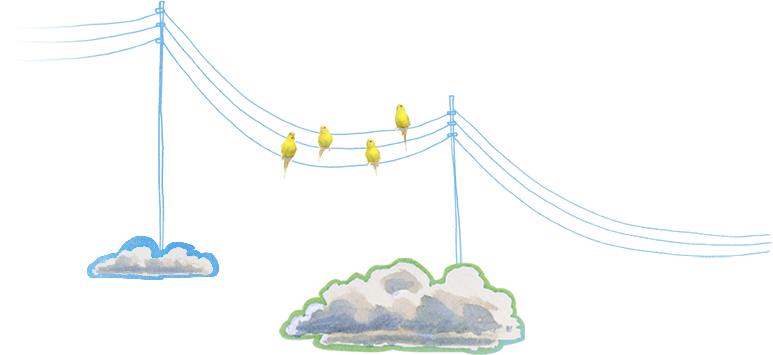
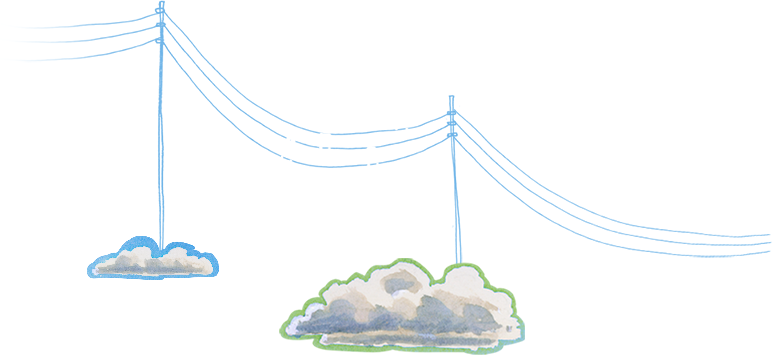
Botanist

Changed region(s): [[0.3415, 0.3408, 0.4347, 0.4958], [0.4657, 0.2789, 0.5278, 0.4958]]

diff --git a/app/botanist.html b/app/botanist.html
@@ -21,33 +21,35 @@
              <nav>
                 <div class="nav_toggle"></div>
                 <div class="navTopper"></div>
-                <a href="index.html" data-page="index" class="navSection"><img src="images/nav/nav_nwtc.png" alt="New World Trading Co." /></a>
-                <a href="oasthouse.html" data-page="oasthouse" class="navSection"><img src="images/nav/nav_oast.png" alt="The Oast House" /></a>
-                <a href="botanist.html" data-page="botanist" class="navSection"><img src="images/nav/nav_bot.png" alt="Botanist" /></a>
-                <a href="smugglerscove.html" data-page="smugglerscove" class="navSection"><img src="images/nav/nav_smcove.png" alt="The Smugglers Cove" /></a>
+                <a href="index.html" data-page="index" class="navSection"><img src="images/nav/nav_nwtc.png" alt="New World Trading Co." width="376" height="236" /></a>
+                <a href="oasthouse.html" data-page="oasthouse" class="navSection"><img src="images/nav/nav_oast.png" alt="The Oast House" width="376" height="99" /></a>
+                <a href="botanist.html" data-page="botanist" class="navSection"><img src="images/nav/nav_bot.png" alt="Botanist" width="376" height="202" /></a>
+                <a href="smugglerscove.html" data-page="smugglerscove" class="navSection"><img src="images/nav/nav_smcove.png" alt="The Smugglers Cove" width="376" height="169" /></a>
                 <div class="navBottom"></div>
             </nav>
-            
+
             <div id="content">
                 <div class="page">
                     <div id="inner">
                         <div data-depth="0.30" class="back layer">
-                            <div class="botWaiter"><img src="images/botanist/Waiter.png" /></div>
-                            <div class="birds" ><img src="images/botanist/birds.png" /></div>
+                            <div class="botWaiter"><img src="images/botanist/Waiter.png" width="389" height="382" /></div>
+                            <img src="images/botanist/birds.png" width="773" height="355" class="birds_bg" />
+                            <div class="birds" ></div>
                         </div>
                         <div data-depth="0.40" class="mid layer">
-                            <div class="astro"><img src="images/botanist/astro.png"/></div>
-                            <div class="botIsland" >
-                                
-                            </div> 
-                            <div class="botMan"><img src="images/botanist/barrel-man.png"/>
+                            <div class="astro"><img src="images/botanist/astro.png" width="505" height="299"/></div>
+                            <div class="botIsland"><img src="images/botanist/island.png" width="461" height="420"/></div>
+                            <div class="botMan"><img src="images/botanist/barrel-man.png" width="206" height="115"/>
                         </div>
                         <div data-depth="1.00" class="layer fore">
-                            <div class="snail"><img src="images/botanist/snail.png" /></div>
-                            <div class="botCloud" ><img src="images/botanist/clouds.png" /></div>
-                            <div class="cork"><img src="images/botanist/Cork-pop.png" /></div>
-                            
+                            <div class="snail"><img src="images/botanist/snail.png" width="335" height="148" /></div>
+                            <div class="botCloud" ><img src="images/botanist/clouds.png" width="399" height="150" /></div>
+                            <div class="cork"><img src="images/botanist/Cork-pop.png" width="515" height="252" /></div>
+
                         </div>
+                    </div>
+                    <div class="hit_areas">
+                        <div class="birds_hit"></div>
                     </div>
                     <div class="trumpet"><img src="images/nwtc/trumpet.png" width="358" height="125" /></div>
                 </div>

diff --git a/app/index.html b/app/index.html
@@ -27,7 +27,7 @@
                 <a href="smugglerscove.html" data-page="smugglerscove" class="navSection"><img src="images/nav/nav_smcove.png" alt="The Smugglers Cove" /></a>
                 <div class="navBottom"></div>
             </nav>
-            
+
             <div id="content">
             <div class="balloon"><img src="images/balloon.png" id="balloon" width="193" height="281" /></div>
                 <div class="page">
@@ -50,21 +50,21 @@
                                         <div class="diver">
                                             <img src="images/nwtc/diver.png"/>
                                         </div>
-                                    </div>    
+                                    </div>
                                     <div class="rainMask">
                                         <div class="rain">
                                             <img src="images/nwtc/rain.png"/>
                                         </div>
                                     </div>
                                 </div>
-                            </div> 
+                            </div>
                             <div class="bottleMan"><img src="images/nwtc/waiter.png" width="313" height="487" />
                         </div>
                         <div data-depth="1.00" class="layer fore">
                             <div class="mushroom"><img src="images/nwtc/mushroom-island.png" width="168" height="173" /></div>
                             <div class="pinkCloud" ><img src="images/nwtc/cloudPnk.png" width="523" height="198" /></div>
                             <div class="bath"><img src="images/nwtc/bath.png" width="232" height="193"/></div>
-                            
+
                         </div>
                     </div><div class="trumpet"><img src="images/nwtc/trumpet.png" width="358" height="125" /></div>
                 </div>
@@ -90,26 +90,13 @@
                 r.parentNode.insertBefore(e,r)}(window,document,'script','ga'));
                 ga('create','UA-XXXXX-X');ga('send','pageview');
             </script>
-<script src="bower_components/tweenMax/minified/TweenMax.min.js"></script>
+
             <!-- build:js scripts/main.js -->
+            <script src="bower_components/tweenMax/src/minified/TweenMax.min.js"></script>
             <script src="bower_components/history.js/scripts/bundled-uncompressed/html4+html5/jquery.history.js"></script>
             <script src="scripts/imagesloaded.js"></script>
             <script src="scripts/main.js"></script>
-            <!-- endbuild -->
-
-            <!-- build:js scripts/plugins.js -->
-            <script src="bower_components/sass-bootstrap/js/affix.js"></script>
-            <script src="bower_components/sass-bootstrap/js/alert.js"></script>
-            <script src="bower_components/sass-bootstrap/js/dropdown.js"></script>
-            <script src="bower_components/sass-bootstrap/js/tooltip.js"></script>
-            <script src="bower_components/sass-bootstrap/js/modal.js"></script>
-            <script src="bower_components/sass-bootstrap/js/transition.js"></script>
-            <script src="bower_components/sass-bootstrap/js/button.js"></script>
-            <script src="bower_components/sass-bootstrap/js/popover.js"></script>
-            <script src="bower_components/sass-bootstrap/js/carousel.js"></script>
-            <script src="bower_components/sass-bootstrap/js/scrollspy.js"></script>
-            <script src="bower_components/sass-bootstrap/js/collapse.js"></script>
-            <script src="bower_components/sass-bootstrap/js/tab.js"></script>\
+            <script src="scripts/botanist.js"></script>
             <!-- endbuild -->
         </body>
         </html>

diff --git a/app/styles/_botanist.scss b/app/styles/_botanist.scss
@@ -1,40 +1,71 @@
-.botanist{
+.botanist {
+
+    .hit_areas {
+        width: 1920px;
+        height: 1030px;
+
+        div {
+            background: rgba(255, 0, 0, 0.8);
+            position: absolute;
+        }
+    }
 
 	.botIsland{
-		position: absolute;
-		background: url('../images/botanist/island.png') no-repeat;
-		top: 210px;
-		left: 670px;
-		height:653px;
-		width:572px;
-	}
+        position: absolute;
+        left: 707px;
+        top: 403px;
+        width: 461px;
+        height: 420px;
+    }
 
 	.botWaiter{
 		position: absolute;
 		top:105px;
 		left:1460px;
 	}
-	.birds{
-		position: absolute;
-		top: 220px;
+
+	.birds_bg {
+        position: absolute;
+        left: 0;
+        top: 248px;
+        width: 953px;
+        height: 452px;
 	}
 
+    .birds {
+        position: absolute;
+        left: 358px;
+        top: 390px;
+        background: url('../images/botanist/birds_sprite.png') no-repeat -13px 0;
+        width: 258px;
+        height: 98px;
+    }
+
+    .birds_hit {
+        left: 326px;
+        top: 360px;
+        width: 200px;
+        height: 120px;
+    }
+
 	.astro{
-		position: absolute;
-		top:380px;
-		left:990px;
+        position: absolute;
+        left: 1023px;
+        top: 592px;
+        width: 505px;
+        height: 299px;
 	}
 
 
 	.snail{
 		position: absolute;
 		left: 140px;
-		top: 660px;
+		top: 760px;
 	}
 
 	.cork{
 		position: absolute;
-		top: 630px;
+		top: 730px;
 		left: 450px;
 	}
 	.botMan{
@@ -43,7 +74,7 @@
 		left: 350px;
 
 	}
-		.trumpet{
+	.trumpet{
 		position: absolute;
 		top: 830px;
 		right: -60px;

diff --git a/app/scripts/botanist.js b/app/scripts/botanist.js
@@ -1,0 +1,50 @@
+var botanist = (function () {
+    'use strict';
+
+    function init () {
+        birds();
+        rain();
+    }
+
+    function birds() {
+        // Jumping Birds
+        var birds_hit = $('.birds_hit'),
+            birdsEl = $('.birds'),
+            birdsAnim = new TimelineMax({paused:true, stagger: 2, repeat: 1000});
+
+        birdsAnim
+            .to(birdsEl, 0, {backgroundPosition:'-1px -129px', ease:Linear.easeNone, delay: 0.6})
+            .to(birdsEl, 0, {backgroundPosition:'-26px -229px', ease:Linear.easeNone, delay: 0.6})
+            .to(birdsEl, 0, {backgroundPosition:'-13px 0', ease:Linear.easeNone, delay: 0.6});
+
+        birdsEl.animation = birdsAnim;
+
+        birds_hit.off().on('mouseenter touchstart', function() {
+            birdsEl.animation.play();
+        });
+
+        birds_hit.off().on('mouseleave touchend', function() {
+            birdsEl.animation.pause();
+        });
+    }
+
+    function rain() {
+        // Raining Cloud
+        var rainHits = $('.rain_hit'),
+            raindrops = $('.raindrops');
+            rainAnim = new TimelineMax({paused:true});
+
+        rainAnim
+            .insert(TweenMax.to(raindrops, 0.2, {rotation:2, ease:Linear.easeNone, repeat: 6, yoyo: true}), 0)
+            .insert(TweenMax.to(raindrops, 1.2, {top: '120px', ease:Linear.easeNone}), 0)
+
+
+        raindrops.animation = rainAnim;
+
+        $(document).off().on('mouseenter', rainHits)
+    }
+
+    return {
+        init: init
+    }
+}());
